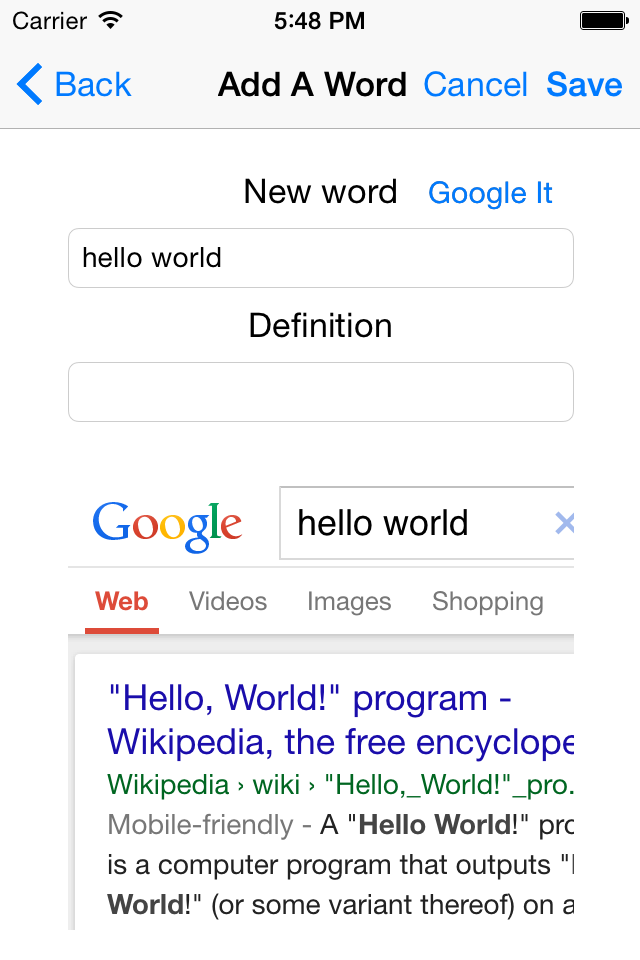
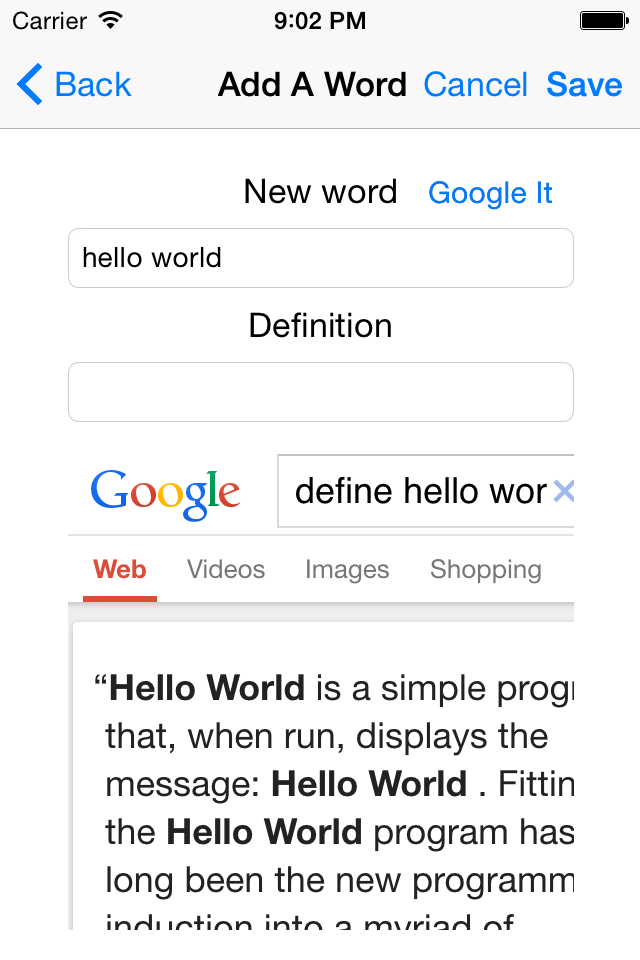
small ui fixes

Changed region(s): [[0.0938, 0.4688, 0.9062, 0.9688], [0.4375, 0.0, 0.5, 0.0312], [0.5312, 0.0, 0.5625, 0.0312]]

diff --git a/AddWordViewController.m b/AddWordViewController.m
@@ -63,18 +63,17 @@
 }
 
 - (BOOL) textFieldShouldReturn: (UITextField *)textField
-{
-    //NSLog(@"%@" , textField.text);
-    
-    //textField.text = @""; // clear text field
+{    
     [textField resignFirstResponder]; // keyboard dismissed
     return YES;
 }
+
 -(void) saveWord
 {
     [wordBank addWord:_wordField.text AndDef:_defField.text];
     [self clear];
 }
+
 -(void) clear
 {
     _wordField.text = @"";
@@ -91,18 +90,26 @@
 
 - (IBAction)googleWord:(id)sender
 {
-    NSString *urlAddress = @"https://www.google.com/webhp?gws_rd=ssl#q=";
-    NSString *searchPhrase = [_wordField text];
-    NSArray *searchWords = [searchPhrase componentsSeparatedByString:@" "];
-    NSString *searchStr = searchWords[0];
-    
-    for( int i =1; i < searchWords.count ; i++)
+    NSString *urlAddress;
+    if([[_wordField text] isEqualToString:@""])
     {
-        searchStr = [searchStr stringByAppendingString:@"+"];
-        searchStr = [searchStr stringByAppendingString:searchWords[i]];
+        urlAddress = @"http://www.google.com";
     }
-    
-    urlAddress = [urlAddress stringByAppendingString:searchStr];
+    else
+    {
+        urlAddress = @"https://www.google.com/webhp?gws_rd=ssl#q=define+";
+        NSString *searchPhrase = [_wordField text];
+        NSArray *searchWords = [searchPhrase componentsSeparatedByString:@" "];
+        NSString *searchStr = searchWords[0];
+        
+        for( int i =1; i < searchWords.count ; i++)
+        {
+            searchStr = [searchStr stringByAppendingString:@"+"];
+            searchStr = [searchStr stringByAppendingString:searchWords[i]];
+        }
+        
+        urlAddress = [urlAddress stringByAppendingString:searchStr];
+    }
     
     NSURL *url = [NSURL URLWithString:urlAddress];
     //URL Requst Object
